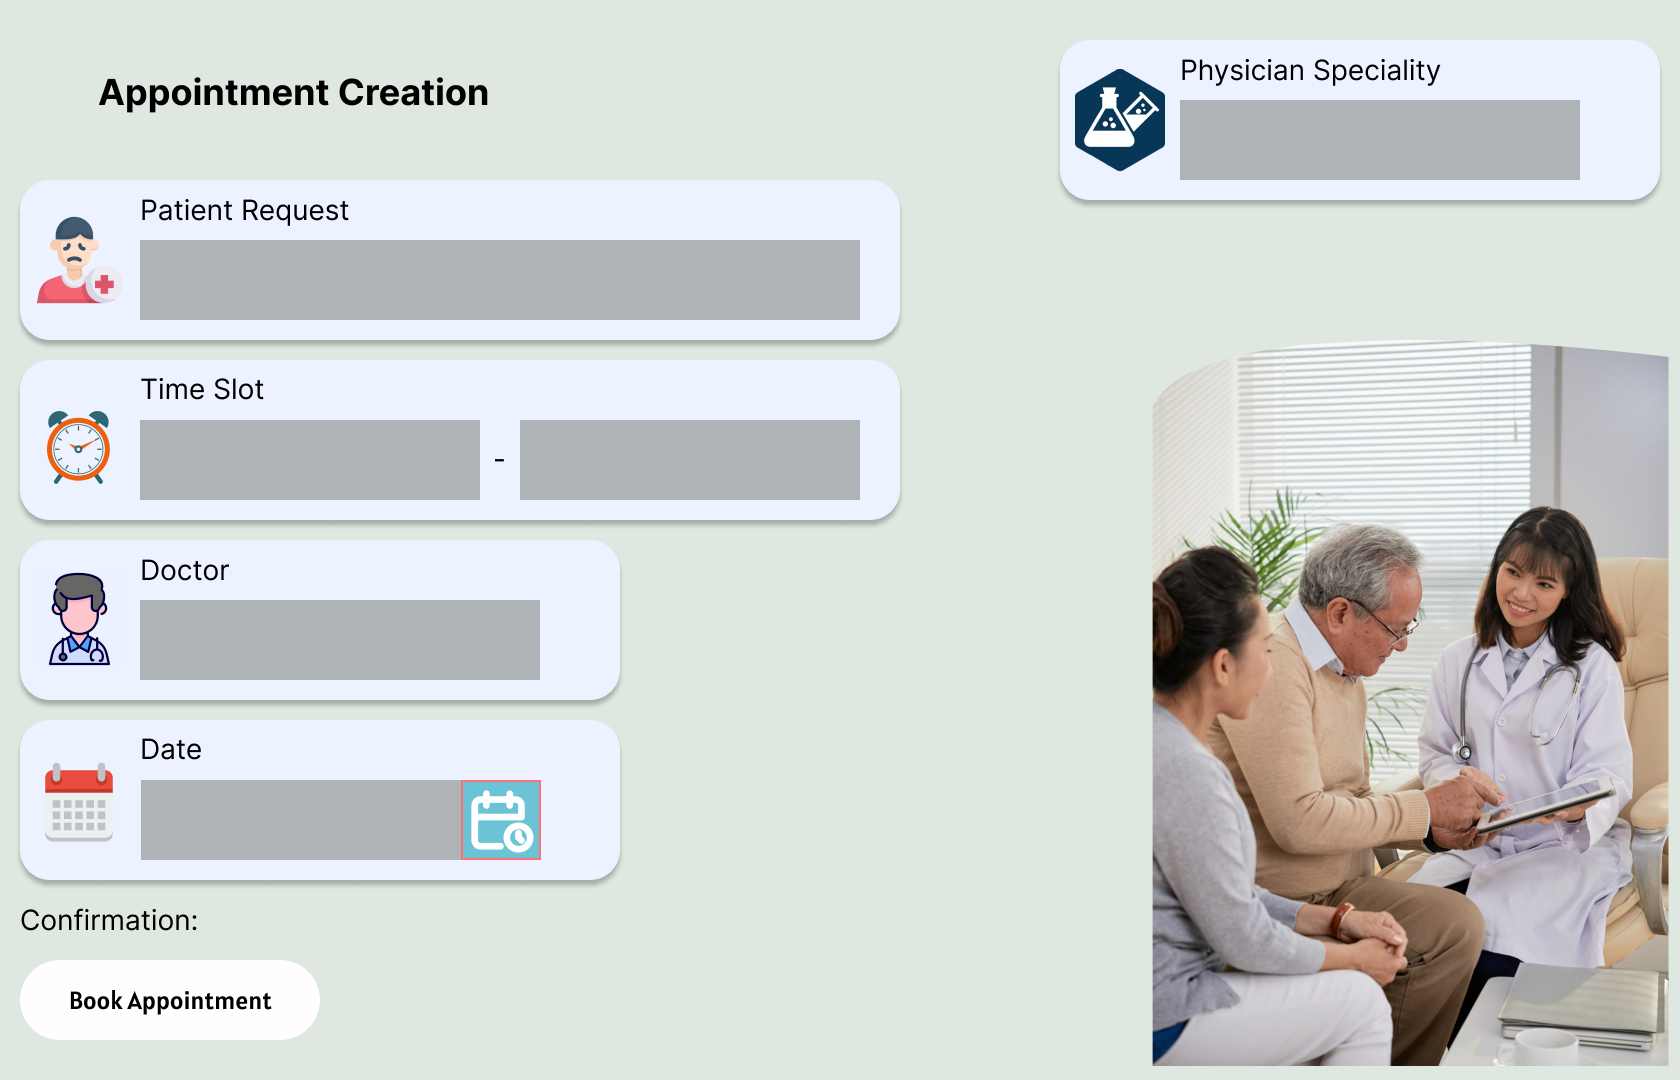
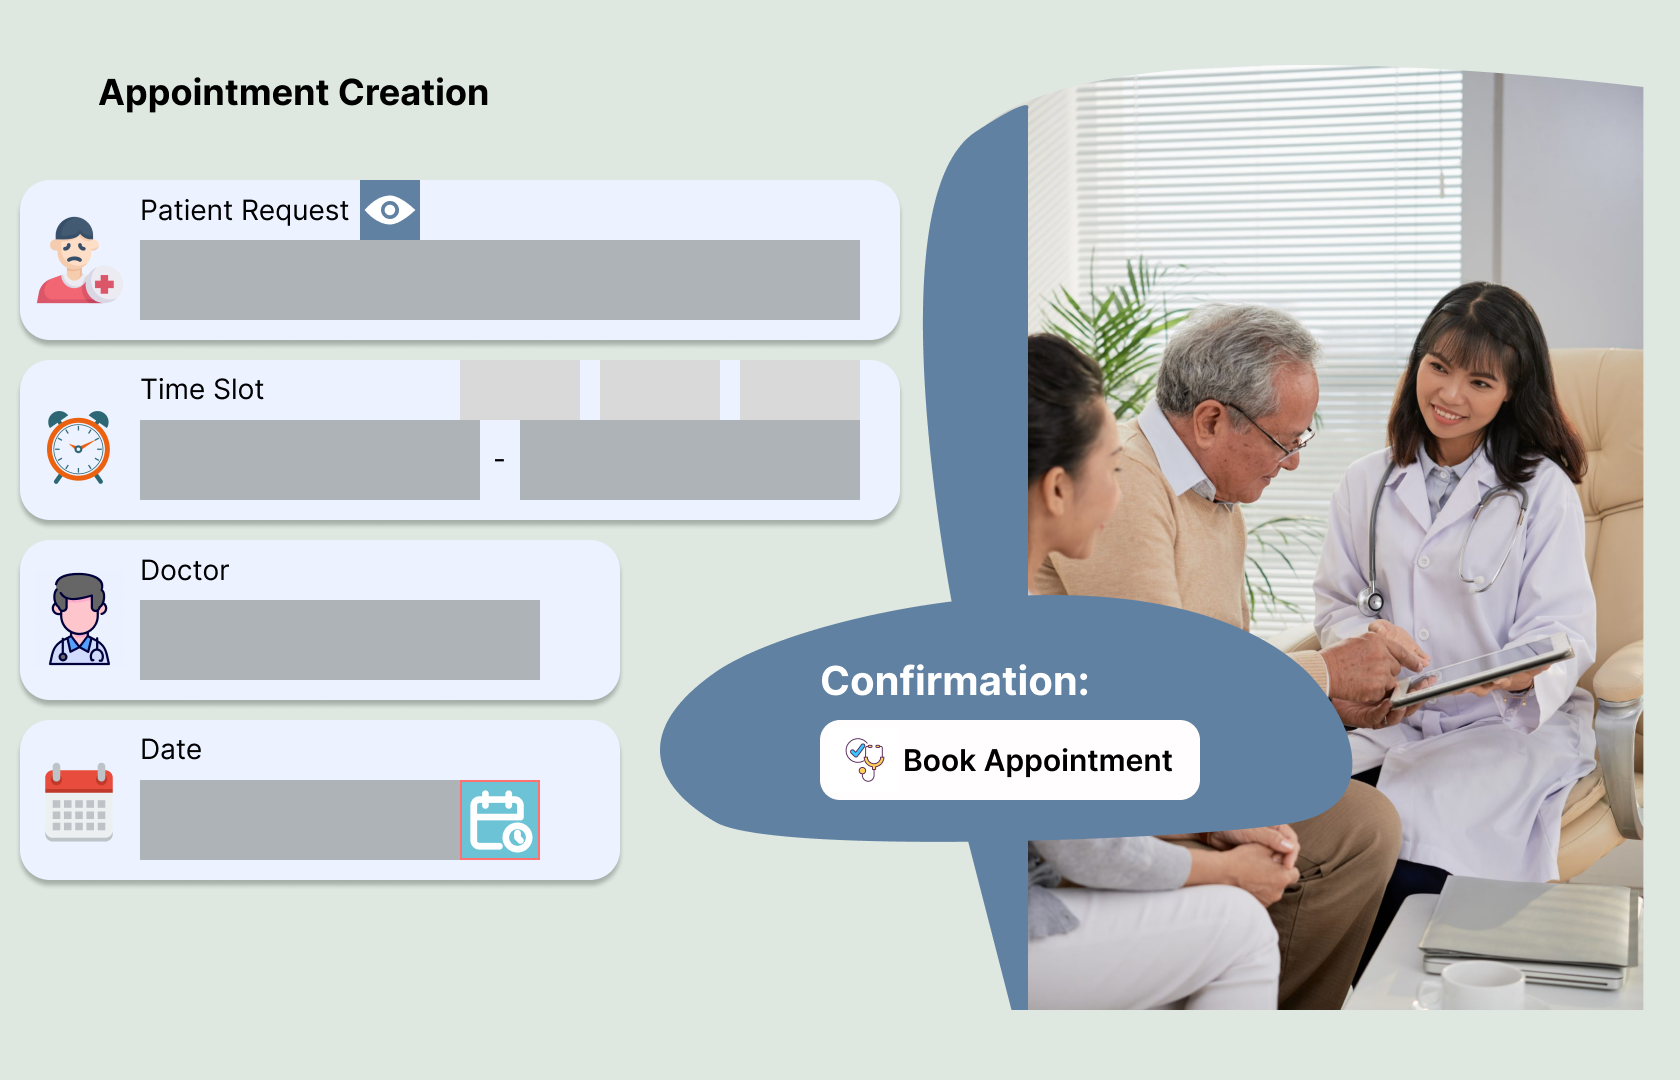
Hi

diff --git a/views/appointments/adminManageAppointments.py b/views/appointments/adminManageAppointments.py
@@ -68,6 +68,7 @@ class AdminManageAppointments(Frame):
                 "assets/Appointments/Homepage/ManageAppointments.png",
                 "assets/Dashboard/ClinicAdminAssets/ScrollFrame/scrollrefreshbutton.png",
                 "assets/Appointments/ReturnButton.png",
+                "assets/Appointments/Creation/BookAppointment.png"
                 "assets/Appointments/ReturnButton.png",
             ]
         }
@@ -98,9 +99,14 @@ class AdminManageAppointments(Frame):
             buttonFunction=lambda: [
                 self.createAppointmentsFrame.grid_remove()],
         )
+        self.bookAppointmentBtn = self.controller.buttonCreator(
+            ipath=d["appointmentButtons"][4],
+            x=820, y=720, classname="bookappointment", root=self.createAppointmentsFrame,
+            buttonFunction=lambda: [print('book')],
+        )
         # Appointment Management
         self.returnmanagementBtn = self.controller.buttonCreator(
-            ipath=d["appointmentButtons"][4],
+            ipath=d["appointmentButtons"][5],
             x=20, y=60, classname="returnmanagement", root=self.manageAppointmentsFrame,
             buttonFunction=lambda: [
                 self.manageAppointmentsFrame.grid_remove()],
